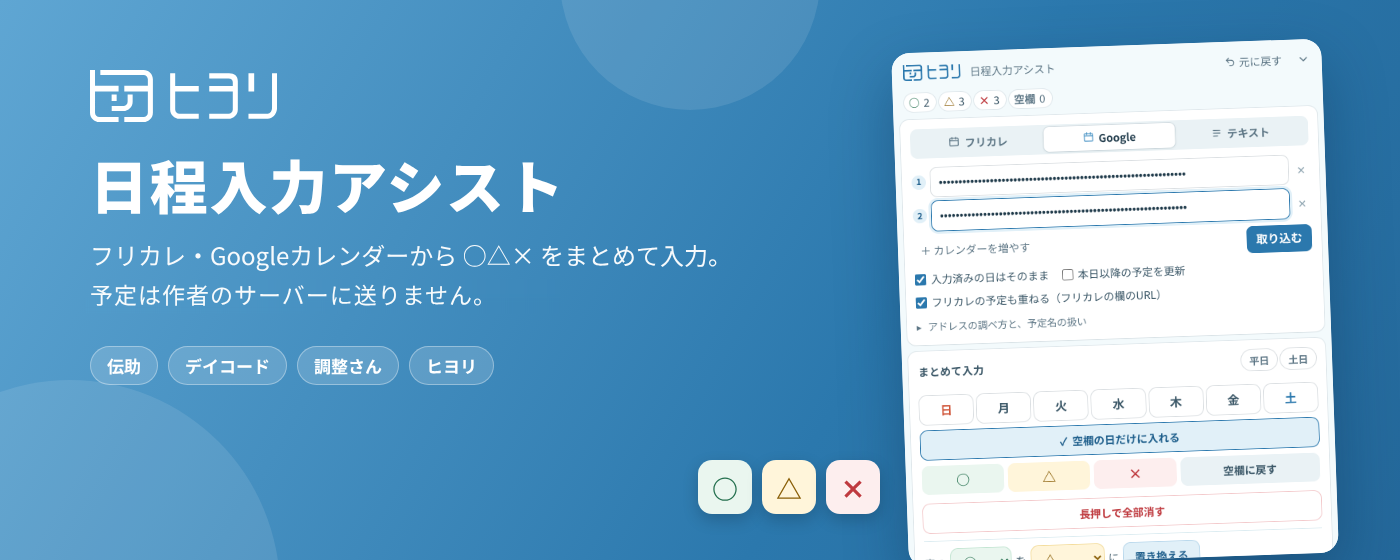
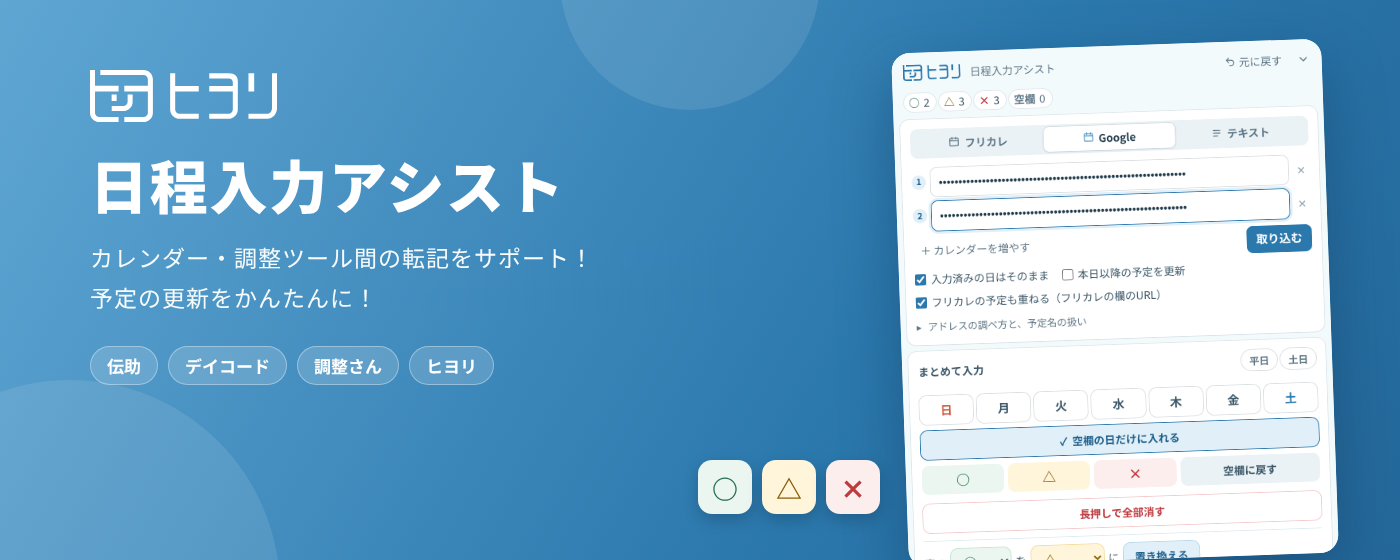
store: プロモーションタイルのキャッチコピーを変更
「カレンダー・調整ツール間の転記をサポート！」「予定の更新をかんたんに！」

Claude-Session: https://claude.ai/code/session_019WhR9J61yTi2MC9QrZgH53

Changed region(s): [[0.0614, 0.425, 0.5221, 0.4857], [0.0614, 0.5161, 0.3379, 0.5464]]

diff --git a/store/listing.md b/store/listing.md
@@ -119,7 +119,7 @@ https://github.com/matumogura/hiyori-assist/blob/main/PRIVACY.md
 
 既存のアイテムの「パッケージ」→「新しいパッケージをアップロード」から `store\dist\hiyori-assist-1.1.0.zip` を上げる。
 掲載情報の「説明」と、プライバシーへの取り組みの「ホストの権限」を上の文に差し替える（freecalend.com/* が増えたため審査に時間がかかることがある）。
-画像は screenshot-2（文言を「予定は作者のサーバーに送りません」に変更）・screenshot-4（新規）・promo-small・promo-marquee（同じ文言の変更）を上げ直す。
+画像は screenshot-2（文言を「予定は作者のサーバーに送りません」に変更）・screenshot-4（新規）・promo-small・promo-marquee（キャッチコピーを「カレンダー・調整ツール間の転記をサポート！／予定の更新をかんたんに！」に変更）を上げ直す。
 
 審査の補足欄（任意）
 ```
